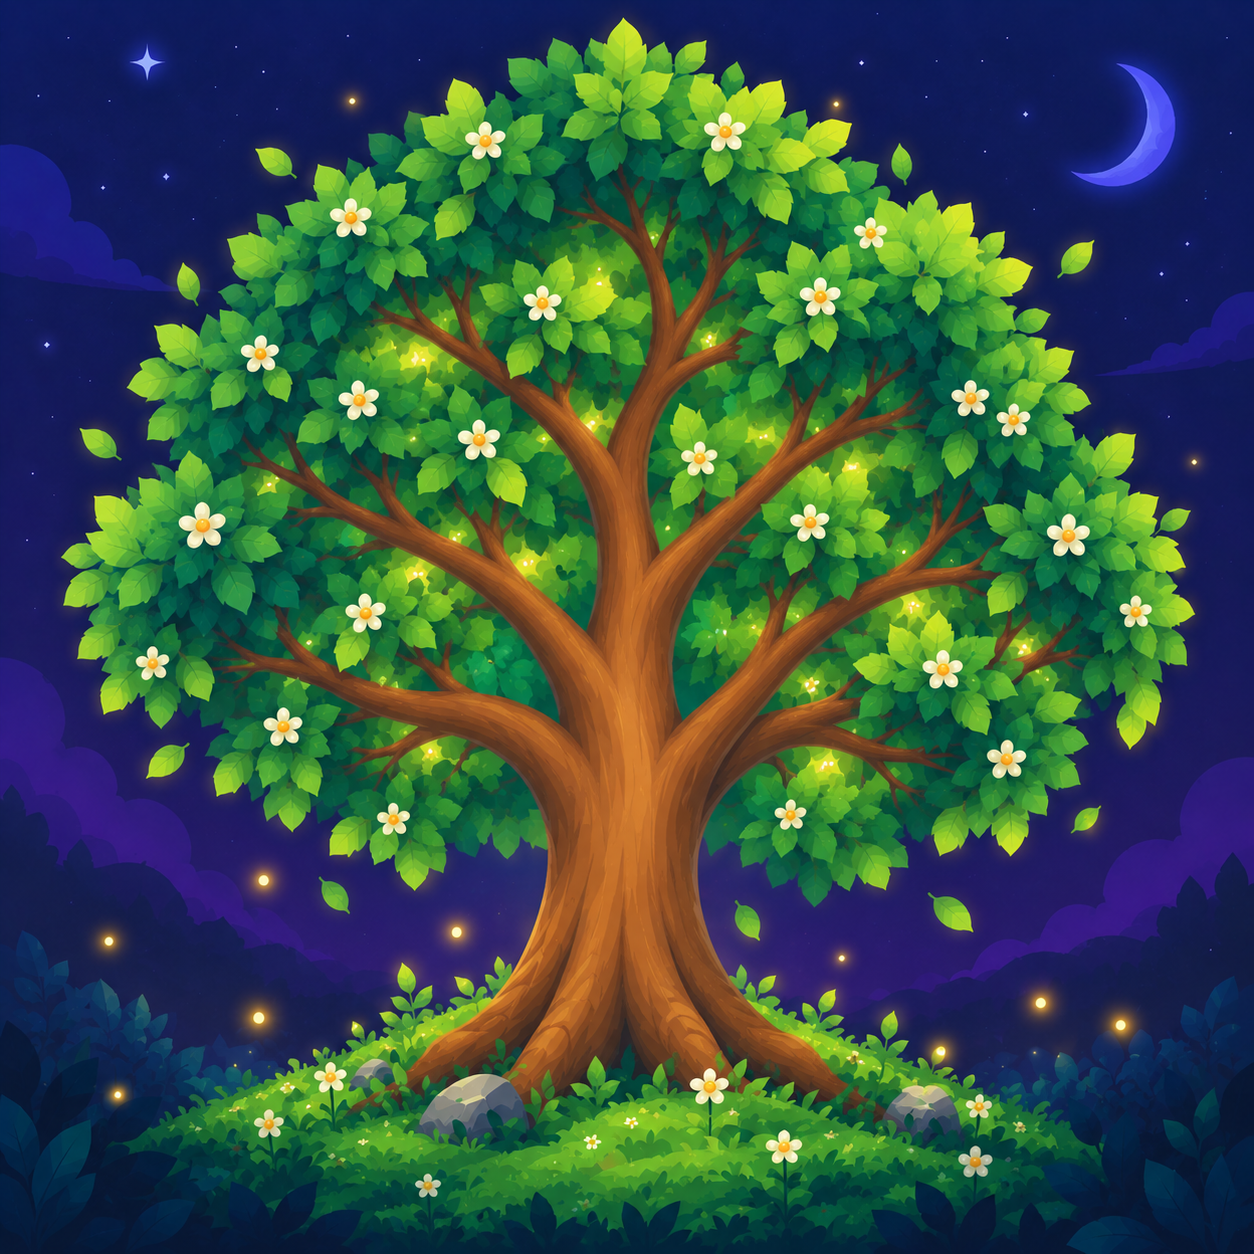
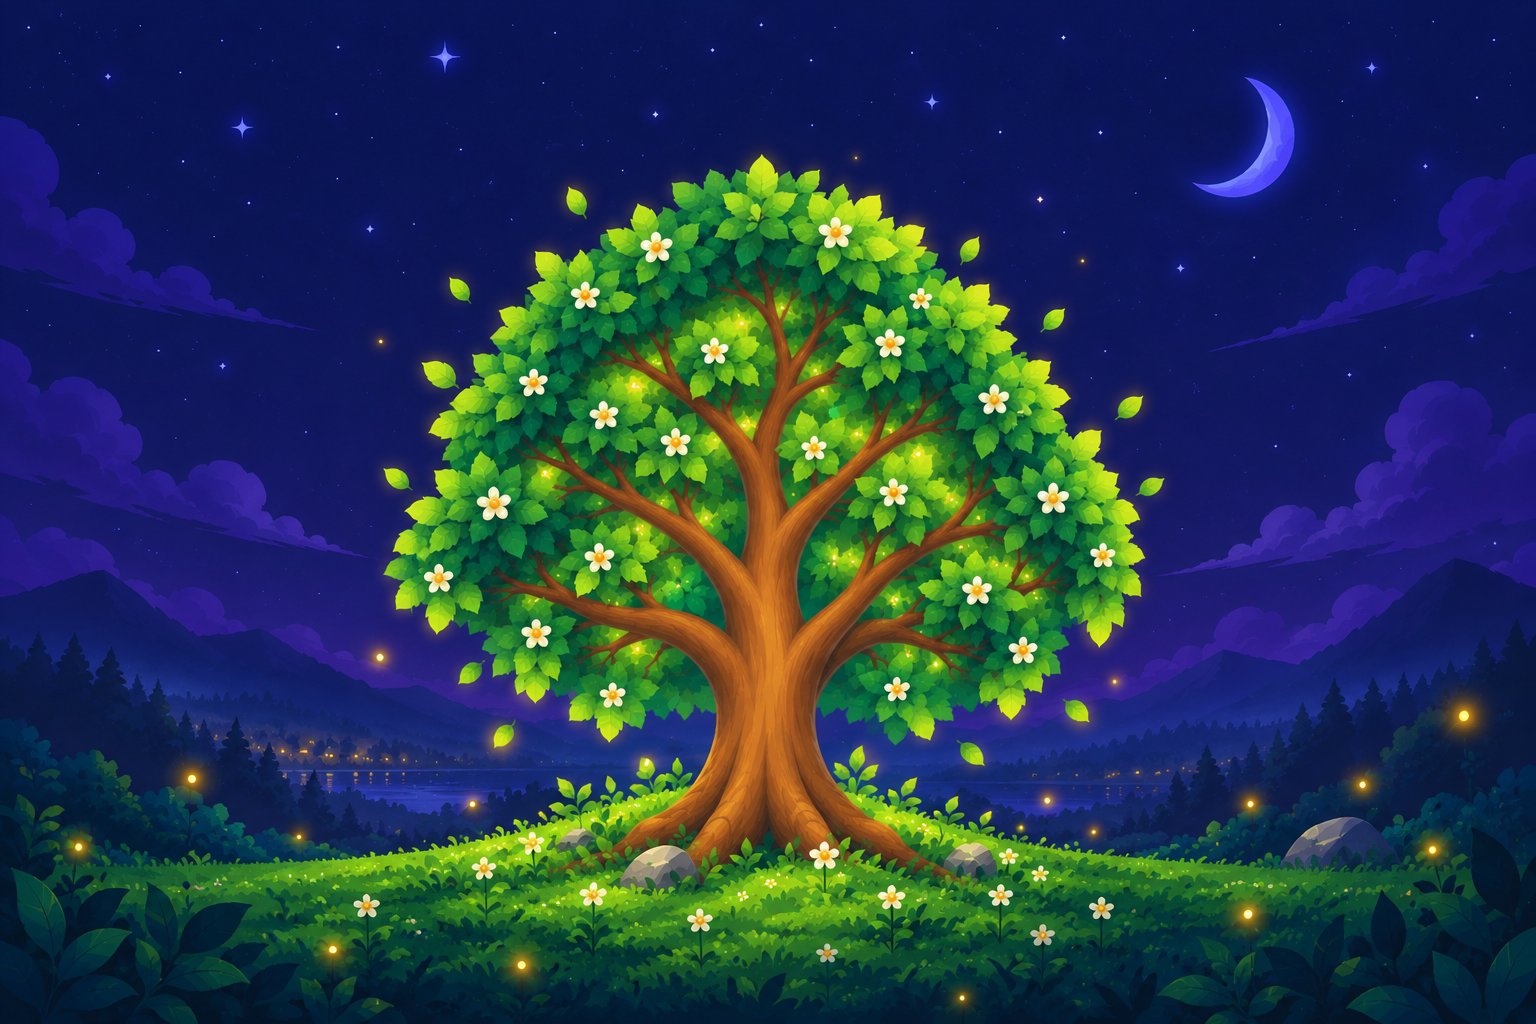
Tree View: use the new wider landscape tree art (same tree, more sky/ground around it) for both themes, and snap each person to a real white-flower spot spread across the whole canopy instead of a computed ellipse point

diff --git a/artifacts/engagement-hub/src/components/goals-tree-view.tsx b/artifacts/engagement-hub/src/components/goals-tree-view.tsx
@@ -13,22 +13,60 @@ function personCompletion(goals: Goal[]): number {
   return Math.round(goals.reduce((sum, g) => sum + g.progress, 0) / goals.length);
 }
 
-// The ellipse the branch spots are scattered around, tuned to
-// public/tree-bg.png's canopy (roughly 1%-71% tall, 6%-95% wide) -- needs
-// re-tuning if that image is ever swapped for a differently-shaped tree.
-const CX = 50;
-const CY = 36;
-const RX = 43;
-const RY = 33;
+// The two tree illustrations are landscape (1536x1024, 3:2) with the tree
+// pulled back to roughly the center 55-60% of the frame. These are the
+// actual white-flower centers on that canopy (found by color-sampling the
+// image for their yellow centers, then hand-filtered for spacing) -- sorted
+// clockwise around the canopy so contiguous runs read as one arc. Needs
+// re-sampling if the art changes again.
+const IMAGE_ASPECT = "1536 / 1024";
+const BRANCH_POSITIONS: Pos[] = [
+  { x: 34.7, y: 37.4 },
+  { x: 38.1, y: 28.8 },
+  { x: 46.5, y: 34.3 },
+  { x: 42.7, y: 24.2 },
+  { x: 54.4, y: 22.7 },
+  { x: 59.9, y: 29.2 },
+  { x: 64.7, y: 39.1 },
+  { x: 68.6, y: 48.7 },
+  { x: 58.2, y: 48.1 },
+  { x: 53.0, y: 43.8 },
+  { x: 63.6, y: 57.7 },
+  { x: 66.6, y: 63.5 },
+  { x: 58.4, y: 67.3 },
+  { x: 54.7, y: 58.9 },
+  { x: 46.8, y: 53.9 },
+  { x: 44.3, y: 60.5 },
+  { x: 39.9, y: 67.9 },
+  { x: 34.9, y: 61.9 },
+  { x: 39.0, y: 54.4 },
+  { x: 28.6, y: 56.5 },
+  { x: 44.0, y: 43.2 },
+  { x: 32.2, y: 49.2 },
+];
+
+// Canopy center the flower angles below are measured from (not the image
+// center -- the canopy sits a bit left-of-center, higher up).
+const CANOPY_CX = 50;
+const CANOPY_CY = 40;
+const TWO_PI = Math.PI * 2;
+
+type FlowerSlot = Pos & { angle: number };
+
+const FLOWER_SLOTS: FlowerSlot[] = BRANCH_POSITIONS.map((p) => ({
+  ...p,
+  angle: Math.atan2(p.y - CANOPY_CY, p.x - CANOPY_CX),
+})).sort((a, b) => a.angle - b.angle);
 
 // Groups people by department (not role) so teammates from the same
-// department land on a contiguous arc of the tree instead of scattered
+// department land on a contiguous slice of the canopy instead of scattered
 // randomly -- per "space it out ... separate by department". Each
-// department gets an angular slice sized to its headcount (so spacing stays
-// even for everyone), with a small gap between slices for a clear visual
-// break. If there are more people than comfortably fit on one ring, extra
-// concentric rings are used (alternating within each department) so avatars
-// never have to crowd closer together than the base spacing allows.
+// department gets a slice of the full loop proportional to its headcount
+// (so a handful of people still spread across the *whole* tree instead of
+// bunching into the first few flowers), with a small gap between slices.
+// Each person's target angle within their slice snaps to whichever
+// still-unused real flower is angularly closest, so placement always lands
+// on an actual flower rather than a computed point that might miss one.
 function computeTreePositions(people: DirectoryProfile[]): Map<string, Pos> {
   const positions = new Map<string, Pos>();
   const n = people.length;
@@ -41,23 +79,48 @@ function computeTreePositions(people: DirectoryProfile[]): Map<string, Pos> {
     groups.get(key)!.push(p);
   }
 
-  const GAP_DEG = 9;
-  const availableDeg = Math.max(90, 360 - GAP_DEG * groups.size);
-  const anglePerPerson = availableDeg / n;
-  const ringFractions = n <= 12 ? [0.93] : n <= 24 ? [0.68, 1] : [0.5, 0.76, 1];
+  const GAP_FRAC = 0.02;
+  const availableFrac = Math.max(0.3, 1 - GAP_FRAC * groups.size);
+  const fracPerPerson = availableFrac / n;
 
-  let angle = -90; // start at the top of the canopy, sweep clockwise
+  const used = new Set<number>();
+  let fracCursor = 0;
+  let overflow = 0;
+
   for (const members of groups.values()) {
-    members.forEach((person, i) => {
-      const ringFrac = ringFractions[i % ringFractions.length];
-      const rad = (angle * Math.PI) / 180;
-      positions.set(person.id, {
-        x: CX + Math.cos(rad) * RX * ringFrac,
-        y: CY + Math.sin(rad) * RY * ringFrac,
+    const k = members.length;
+    members.forEach((person, j) => {
+      const frac = fracCursor + (j + 0.5) * fracPerPerson;
+      const targetAngle = -Math.PI + frac * TWO_PI;
+
+      let bestIdx = -1;
+      let bestDist = Infinity;
+      FLOWER_SLOTS.forEach((slot, i) => {
+        if (used.has(i)) return;
+        let d = Math.abs(slot.angle - targetAngle);
+        if (d > Math.PI) d = TWO_PI - d;
+        if (d < bestDist) {
+          bestDist = d;
+          bestIdx = i;
+        }
       });
-      angle += anglePerPerson;
+
+      if (bestIdx === -1) {
+        // Every flower is already taken (more people than flowers) -- reuse
+        // spots in order, nudged down a little per lap so a repeat doesn't
+        // sit exactly on top of the earlier person's flower.
+        const idx = overflow % FLOWER_SLOTS.length;
+        const lap = Math.floor(overflow / FLOWER_SLOTS.length) + 1;
+        const slot = FLOWER_SLOTS[idx];
+        positions.set(person.id, { x: slot.x, y: Math.min(97, slot.y + lap * 3) });
+        overflow += 1;
+      } else {
+        used.add(bestIdx);
+        const slot = FLOWER_SLOTS[bestIdx];
+        positions.set(person.id, { x: slot.x, y: slot.y });
+      }
     });
-    angle += GAP_DEG;
+    fracCursor += k * fracPerPerson + GAP_FRAC;
   }
 
   return positions;
@@ -145,7 +208,7 @@ export function GoalsTreeView({
   return (
     <div
       className="relative w-full rounded-2xl overflow-hidden border border-border/60 shadow-xl bg-card"
-      style={{ aspectRatio: "1 / 1" }}
+      style={{ aspectRatio: IMAGE_ASPECT }}
     >
       <img
         src={`${import.meta.env.BASE_URL}${bgFile}`}
